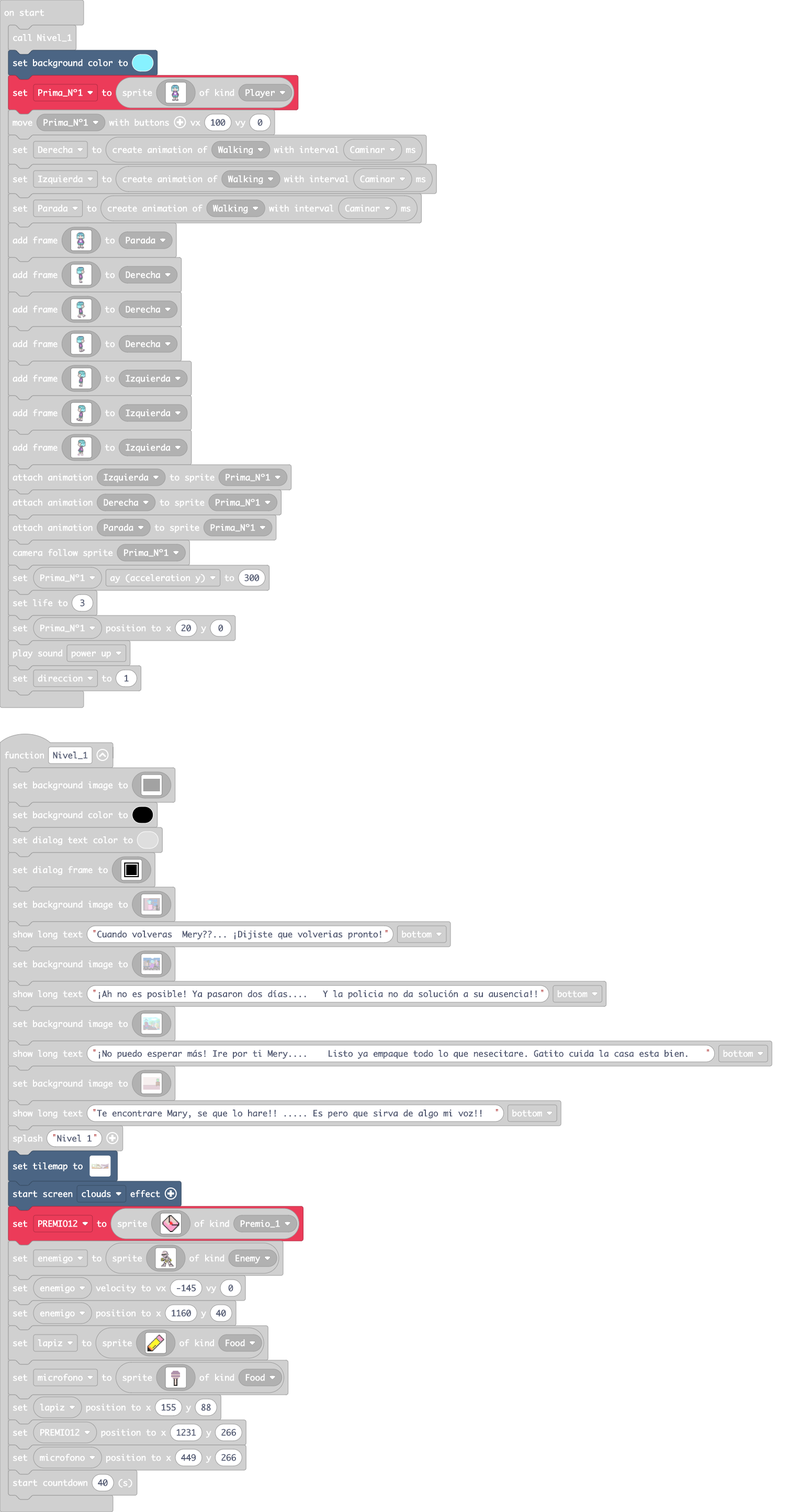
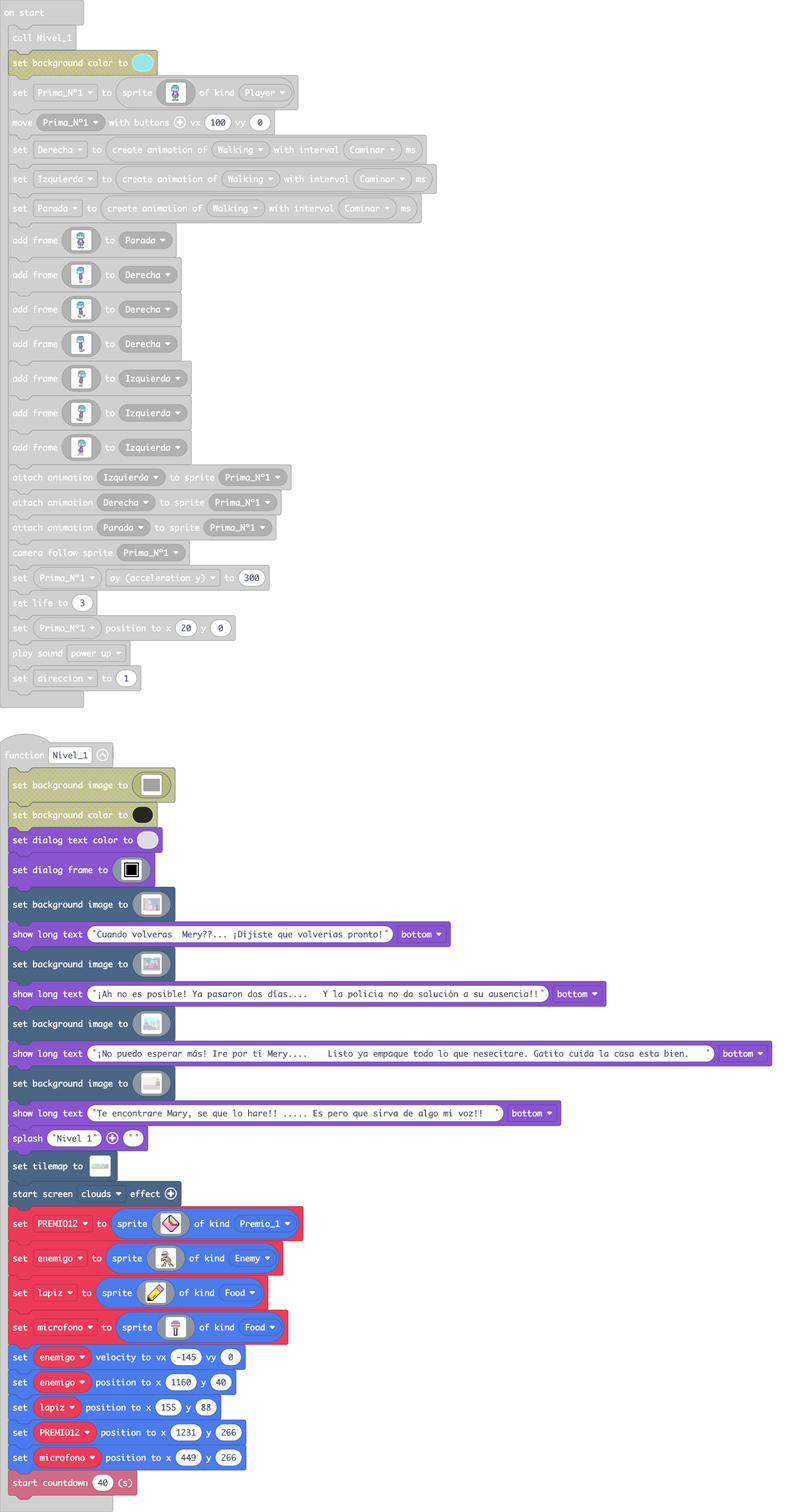
Update main.blocks, main.ts, tilemap.g.jres, tilemap.g.ts

Changed region(s): [[0.0, 0.4984, 0.9849, 0.9969], [0.0, 0.0312, 0.2155, 0.0935], [0.2462, 0.0312, 0.3694, 0.1558]]

diff --git a/main.ts b/main.ts
@@ -285,129 +285,6 @@ function movePrima2 () {
     }
 }
 function Nivel_1 () {
-    scene.setBackgroundImage(img`
-        f f f f f f f f f f f f f f f f f f f f f f f f f f f f f f f f f f f f f f f f f f f f f f f f f f f f f f f f f f f f f f f f f f f f f f f f f f f f f f f f f f f f f f f f f f f f f f f f f f f f f f f f f f f f f f f f f f f f f f f f f f f f f f f f f f f f f f f f f f f f f f f f f f f f f f f f f f f f f f f f 
-        f f f f f f f f f f f f f f f f f f f f f f f f f f f f f f f f f f f f f f f f f f f f f f f f f f f f f f f f f f f f f f f f f f f f f f f f f f f f f f f f f f f f f f f f f f f f f f f f f f f f f f f f f f f f f f f f f f f f f f f f f f f f f f f f f f f f f f f f f f f f f f f f f f f f f f f f f f f f f f f f 
-        f f f f f f f f f f f f f f f f f f f f f f f f f f f f f f f f f f f f f f f f f f f f f f f f f f f f f f f f f f f f f f f f f f f f f f f f f f f f f f f f f f f f f f f f f f f f f f f f f f f f f f f f f f f f f f f f f f f f f f f f f f f f f f f f f f f f f f f f f f f f f f f f f f f f f f f f f f f f f f f f 
-        f f f f f f f f f f f f f f f f f f f f f f f f f f f f f f f f f f f f f f f f f f f f f f f f f f f f f f f f f f f f f f f f f f f f f f f f f f f f f f f f f f f f f f f f f f f f f f f f f f f f f f f f f f f f f f f f f f f f f f f f f f f f f f f f f f f f f f f f f f f f f f f f f f f f f f f f f f f f f f f f 
-        f f f f f f f f f f f f f f f f f f f f f f f f f f f f f f f f f f f f f f f f f f f f f f f f f f f f f f f f f f f f f f f f f f f f f f f f f f f f f f f f f f f f f f f f f f f f f f f f f f f f f f f f f f f f f f f f f f f f f f f f f f f f f f f f f f f f f f f f f f f f f f f f f f f f f f f f f f f f f f f f 
-        f f f f f f f f f f f f f f f f f f f f f f f f f f f f f f f f f f f f f f f f f f f f f f f f f f f f f f f f f f f f f f f f f f f f f f f f f f f f f f f f f f f f f f f f f f f f f f f f f f f f f f f f f f f f f f f f f f f f f f f f f f f f f f f f f f f f f f f f f f f f f f f f f f f f f f f f f f f f f f f f 
-        f f f f f f f f f f f f f f f f f f f f f f f f f f f f f f f f f f f f f f f f f f f f f f f f f f f f f f f f f f f f f f f f f f f f f f f f f f f f f f f f f f f f f f f f f f f f f f f f f f f f f f f f f f f f f f f f f f f f f f f f f f f f f f f f f f f f f f f f f f f f f f f f f f f f f f f f f f f f f f f f 
-        f f f f f f f f f f f f f f f f f f f f f f f f f f f f f f f f f f f f f f f f f f f f f f f f f f f f f f f f f f f f f f f f f f f f f f f f f f f f f f f f f f f f f f f f f f f f f f f f f f f f f f f f f f f f f f f f f f f f f f f f f f f f f f f f f f f f f f f f f f f f f f f f f f f f f f f f f f f f f f f f 
-        f f f f f f f f f f f f f f f f f f f f f f f f f f f f f f f f f f f f f f f f f f f f f f f f f f f f f f f f f f f f f f f f f f f f f f f f f f f f f f f f f f f f f f f f f f f f f f f f f f f f f f f f f f f f f f f f f f f f f f f f f f f f f f f f f f f f f f f f f f f f f f f f f f f f f f f f f f f f f f f f 
-        f f f f f f f f f f f f f f f f f f f f f f f f f f f f f f f f f f f f f f f f f f f f f f f f f f f f f f f f f f f f f f f f f f f f f f f f f f f f f f f f f f f f f f f f f f f f f f f f f f f f f f f f f f f f f f f f f f f f f f f f f f f f f f f f f f f f f f f f f f f f f f f f f f f f f f f f f f f f f f f f 
-        f f f f f f f f f f f f f f f f f f f f f f f f f f f f f f f f f f f f f f f f f f f f f f f f f f f f f f f f f f f f f f f f f f f f f f f f f f f f f f f f f f f f f f f f f f f f f f f f f f f f f f f f f f f f f f f f f f f f f f f f f f f f f f f f f f f f f f f f f f f f f f f f f f f f f f f f f f f f f f f f 
-        f f f f f f f f f f f f f f f f f f f f f f f f f f f f f f f f f f f f f f f f f f f f f f f f f f f f f f f f f f f f f f f f f f f f f f f f f f f f f f f f f f f f f f f f f f f f f f f f f f f f f f f f f f f f f f f f f f f f f f f f f f f f f f f f f f f f f f f f f f f f f f f f f f f f f f f f f f f f f f f f 
-        f f f f f f f f f f f f f f f f f f f f f f f f f f f f f f f f f f f f f f f f f f f f f f f f f f f f f f f f f f f f f f f f f f f f f f f f f f f f f f f f f f f f f f f f f f f f f f f f f f f f f f f f f f f f f f f f f f f f f f f f f f f f f f f f f f f f f f f f f f f f f f f f f f f f f f f f f f f f f f f f 
-        f f f f f f f f f f f f f f f f f f f f f f f f f f f f f f f f f f f f f f f f f f f f f f f f f f f f f f f f f f f f f f f f f f f f f f f f f f f f f f f f f f f f f f f f f f f f f f f f f f f f f f f f f f f f f f f f f f f f f f f f f f f f f f f f f f f f f f f f f f f f f f f f f f f f f f f f f f f f f f f f 
-        f f f f f f f f f f f f f f f f f f f f f f f f f f f f f f f f f f f f f f f f f f f f f f f f f f f f f f f f f f f f f f f f f f f f f f f f f f f f f f f f f f f f f f f f f f f f f f f f f f f f f f f f f f f f f f f f f f f f f f f f f f f f f f f f f f f f f f f f f f f f f f f f f f f f f f f f f f f f f f f f 
-        f f f f f f f f f f f f f f f f f f f f f f f f f f f f f f f f f f f f f f f f f f f f f f f f f f f f f f f f f f f f f f f f f f f f f f f f f f f f f f f f f f f f f f f f f f f f f f f f f f f f f f f f f f f f f f f f f f f f f f f f f f f f f f f f f f f f f f f f f f f f f f f f f f f f f f f f f f f f f f f f 
-        f f f f f f f f f f f f f f f f f f f f f f f f f f f f f f f f f f f f f f f f f f f f f f f f f f f f f f f f f f f f f f f f f f f f f f f f f f f f f f f f f f f f f f f f f f f f f f f f f f f f f f f f f f f f f f f f f f f f f f f f f f f f f f f f f f f f f f f f f f f f f f f f f f f f f f f f f f f f f f f f 
-        f f f f f f f f f f f f f f f f f f f f f f f f f f f f f f f f f f f f f f f f f f f f f f f f f f f f f f f f f f f f f f f f f f f f f f f f f f f f f f f f f f f f f f f f f f f f f f f f f f f f f f f f f f f f f f f f f f f f f f f f f f f f f f f f f f f f f f f f f f f f f f f f f f f f f f f f f f f f f f f f 
-        f f f f f f f f f f f f f f f f f f f f f f f f f f f f f f f f f f f f f f f f f f f f f f f f f f f f f f f f f f f f f f f f f f f f f f f f f f f f f f f f f f f f f f f f f f f f f f f f f f f f f f f f f f f f f f f f f f f f f f f f f f f f f f f f f f f f f f f f f f f f f f f f f f f f f f f f f f f f f f f f 
-        f f f f f f f f f f f f f f f f f f f f f f f f f f f f f f f f f f f f f f f f f f f f f f f f f f f f f f f f f f f f f f f f f f f f f f f f f f f f f f f f f f f f f f f f f f f f f f f f f f f f f f f f f f f f f f f f f f f f f f f f f f f f f f f f f f f f f f f f f f f f f f f f f f f f f f f f f f f f f f f f 
-        f f f f f f f f f f f f f f f f f f f f f f f f f f f f f f f f f f f f f f f f f f f f f f f f f f f f f f f f f f f f f f f f f f f f f f f f f f f f f f f f f f f f f f f f f f f f f f f f f f f f f f f f f f f f f f f f f f f f f f f f f f f f f f f f f f f f f f f f f f f f f f f f f f f f f f f f f f f f f f f f 
-        f f f f f f f f f f f f f f f f f f f f f f f f f f f f f f f f f f f f f f f f f f f f f f f f f f f f f f f f f f f f f f f f f f f f f f f f f f f f f f f f f f f f f f f f f f f f f f f f f f f f f f f f f f f f f f f f f f f f f f f f f f f f f f f f f f f f f f f f f f f f f f f f f f f f f f f f f f f f f f f f 
-        f f f f f f f f f f f f f f f f f f f f f f f f f f f f f f f f f f f f f f f f f f f f f f f f f f f f f f f f f f f f f f f f f f f f f f f f f f f f f f f f f f f f f f f f f f f f f f f f f f f f f f f f f f f f f f f f f f f f f f f f f f f f f f f f f f f f f f f f f f f f f f f f f f f f f f f f f f f f f f f f 
-        f f f f f f f f f f f f f f f f f f f f f f f f f f f f f f f f f f f f f f f f f f f f f f f f f f f f f f f f f f f f f f f f f f f f f f f f f f f f f f f f f f f f f f f f f f f f f f f f f f f f f f f f f f f f f f f f f f f f f f f f f f f f f f f f f f f f f f f f f f f f f f f f f f f f f f f f f f f f f f f f 
-        f f f f f f f f f f f f f f f f f f f f f f f f f f f f f f f f f f f f f f f f f f f f f f f f f f f f f f f f f f f f f f f f f f f f f f f f f f f f f f f f f f f f f f f f f f f f f f f f f f f f f f f f f f f f f f f f f f f f f f f f f f f f f f f f f f f f f f f f f f f f f f f f f f f f f f f f f f f f f f f f 
-        f f f f f f f f f f f f f f f f f f f f f f f f f f f f f f f f f f f f f f f f f f f f f f f f f f f f f f f f f f f f f f f f f f f f f f f f f f f f f f f f f f f f f f f f f f f f f f f f f f f f f f f f f f f f f f f f f f f f f f f f f f f f f f f f f f f f f f f f f f f f f f f f f f f f f f f f f f f f f f f f 
-        f f f f f f f f f f f f f f f f f f f f f f f f f f f f f f f f f f f f f f f f f f f f f f f f f f f f f f f f f f f f f f f f f f f f f f f f f f f f f f f f f f f f f f f f f f f f f f f f f f f f f f f f f f f f f f f f f f f f f f f f f f f f f f f f f f f f f f f f f f f f f f f f f f f f f f f f f f f f f f f f 
-        f f f f f f f f f f f f f f f f f f f f f f f f f f f f f f f f f f f f f f f f f f f f f f f f f f f f f f f f f f f f f f f f f f f f f f f f f f f f f f f f f f f f f f f f f f f f f f f f f f f f f f f f f f f f f f f f f f f f f f f f f f f f f f f f f f f f f f f f f f f f f f f f f f f f f f f f f f f f f f f f 
-        f f f f f f f f f f f f f f f f f f f f f f f f f f f f f f f f f f f f f f f f f f f f f f f f f f f f f f f f f f f f f f f f f f f f f f f f f f f f f f f f f f f f f f f f f f f f f f f f f f f f f f f f f f f f f f f f f f f f f f f f f f f f f f f f f f f f f f f f f f f f f f f f f f f f f f f f f f f f f f f f 
-        f f f f f f f f f f f f f f f f f f f f f f f f f f f f f f f f f f f f f f f f f f f f f f f f f f f f f f f f f f f f f f f f f f f f f f f f f f f f f f f f f f f f f f f f f f f f f f f f f f f f f f f f f f f f f f f f f f f f f f f f f f f f f f f f f f f f f f f f f f f f f f f f f f f f f f f f f f f f f f f f 
-        f f f f f f f f f f f f f f f f f f f f f f f f f f f f f f f f f f f f f f f f f f f f f f f f f f f f f f f f f f f f f f f f f f f f f f f f f f f f f f f f f f f f f f f f f f f f f f f f f f f f f f f f f f f f f f f f f f f f f f f f f f f f f f f f f f f f f f f f f f f f f f f f f f f f f f f f f f f f f f f f 
-        f f f f f f f f f f f f f f f f f f f f f f f f f f f f f f f f f f f f f f f f f f f f f f f f f f f f f f f f f f f f f f f f f f f f f f f f f f f f f f f f f f f f f f f f f f f f f f f f f f f f f f f f f f f f f f f f f f f f f f f f f f f f f f f f f f f f f f f f f f f f f f f f f f f f f f f f f f f f f f f f 
-        f f f f f f f f f f f f f f f f f f f f f f f f f f f f f f f f f f f f f f f f f f f f f f f f f f f f f f f f f f f f f f f f f f f f f f f f f f f f f f f f f f f f f f f f f f f f f f f f f f f f f f f f f f f f f f f f f f f f f f f f f f f f f f f f f f f f f f f f f f f f f f f f f f f f f f f f f f f f f f f f 
-        f f f f f f f f f f f f f f f f f f f f f f f f f f f f f f f f f f f f f f f f f f f f f f f f f f f f f f f f f f f f f f f f f f f f f f f f f f f f f f f f f f f f f f f f f f f f f f f f f f f f f f f f f f f f f f f f f f f f f f f f f f f f f f f f f f f f f f f f f f f f f f f f f f f f f f f f f f f f f f f f 
-        f f f f f f f f f f f f f f f f f f f f f f f f f f f f f f f f f f f f f f f f f f f f f f f f f f f f f f f f f f f f f f f f f f f f f f f f f f f f f f f f f f f f f f f f f f f f f f f f f f f f f f f f f f f f f f f f f f f f f f f f f f f f f f f f f f f f f f f f f f f f f f f f f f f f f f f f f f f f f f f f 
-        f f f f f f f f f f f f f f f f f f f f f f f f f f f f f f f f f f f f f f f f f f f f f f f f f f f f f f f f f f f f f f f f f f f f f f f f f f f f f f f f f f f f f f f f f f f f f f f f f f f f f f f f f f f f f f f f f f f f f f f f f f f f f f f f f f f f f f f f f f f f f f f f f f f f f f f f f f f f f f f f 
-        f f f f f f f f f f f f f f f f f f f f f f f f f f f f f f f f f f f f f f f f f f f f f f f f f f f f f f f f f f f f f f f f f f f f f f f f f f f f f f f f f f f f f f f f f f f f f f f f f f f f f f f f f f f f f f f f f f f f f f f f f f f f f f f f f f f f f f f f f f f f f f f f f f f f f f f f f f f f f f f f 
-        f f f f f f f f f f f f f f f f f f f f f f f f f f f f f f f f f f f f f f f f f f f f f f f f f f f f f f f f f f f f f f f f f f f f f f f f f f f f f f f f f f f f f f f f f f f f f f f f f f f f f f f f f f f f f f f f f f f f f f f f f f f f f f f f f f f f f f f f f f f f f f f f f f f f f f f f f f f f f f f f 
-        f f f f f f f f f f f f f f f f f f f f f f f f f f f f f f f f f f f f f f f f f f f f f f f f f f f f f f f f f f f f f f f f f f f f f f f f f f f f f f f f f f f f f f f f f f f f f f f f f f f f f f f f f f f f f f f f f f f f f f f f f f f f f f f f f f f f f f f f f f f f f f f f f f f f f f f f f f f f f f f f 
-        f f f f f f f f f f f f f f f f f f f f f f f f f f f f f f f f f f f f f f f f f f f f f f f f f f f f f f f f f f f f f f f f f f f f f f f f f f f f f f f f f f f f f f f f f f f f f f f f f f f f f f f f f f f f f f f f f f f f f f f f f f f f f f f f f f f f f f f f f f f f f f f f f f f f f f f f f f f f f f f f 
-        f f f f f f f f f f f f f f f f f f f f f f f f f f f f f f f f f f f f f f f f f f f f f f f f f f f f f f f f f f f f f f f f f f f f f f f f f f f f f f f f f f f f f f f f f f f f f f f f f f f f f f f f f f f f f f f f f f f f f f f f f f f f f f f f f f f f f f f f f f f f f f f f f f f f f f f f f f f f f f f f 
-        f f f f f f f f f f f f f f f f f f f f f f f f f f f f f f f f f f f f f f f f f f f f f f f f f f f f f f f f f f f f f f f f f f f f f f f f f f f f f f f f f f f f f f f f f f f f f f f f f f f f f f f f f f f f f f f f f f f f f f f f f f f f f f f f f f f f f f f f f f f f f f f f f f f f f f f f f f f f f f f f 
-        f f f f f f f f f f f f f f f f f f f f f f f f f f f f f f f f f f f f f f f f f f f f f f f f f f f f f f f f f f f f f f f f f f f f f f f f f f f f f f f f f f f f f f f f f f f f f f f f f f f f f f f f f f f f f f f f f f f f f f f f f f f f f f f f f f f f f f f f f f f f f f f f f f f f f f f f f f f f f f f f 
-        f f f f f f f f f f f f f f f f f f f f f f f f f f f f f f f f f f f f f f f f f f f f f f f f f f f f f f f f f f f f f f f f f f f f f f f f f f f f f f f f f f f f f f f f f f f f f f f f f f f f f f f f f f f f f f f f f f f f f f f f f f f f f f f f f f f f f f f f f f f f f f f f f f f f f f f f f f f f f f f f 
-        f f f f f f f f f f f f f f f f f f f f f f f f f f f f f f f f f f f f f f f f f f f f f f f f f f f f f f f f f f f f f f f f f f f f f f f f f f f f f f f f f f f f f f f f f f f f f f f f f f f f f f f f f f f f f f f f f f f f f f f f f f f f f f f f f f f f f f f f f f f f f f f f f f f f f f f f f f f f f f f f 
-        f f f f f f f f f f f f f f f f f f f f f f f f f f f f f f f f f f f f f f f f f f f f f f f f f f f f f f f f f f f f f f f f f f f f f f f f f f f f f f f f f f f f f f f f f f f f f f f f f f f f f f f f f f f f f f f f f f f f f f f f f f f f f f f f f f f f f f f f f f f f f f f f f f f f f f f f f f f f f f f f 
-        f f f f f f f f f f f f f f f f f f f f f f f f f f f f f f f f f f f f f f f f f f f f f f f f f f f f f f f f f f f f f f f f f f f f f f f f f f f f f f f f f f f f f f f f f f f f f f f f f f f f f f f f f f f f f f f f f f f f f f f f f f f f f f f f f f f f f f f f f f f f f f f f f f f f f f f f f f f f f f f f 
-        f f f f f f f f f f f f f f f f f f f f f f f f f f f f f f f f f f f f f f f f f f f f f f f f f f f f f f f f f f f f f f f f f f f f f f f f f f f f f f f f f f f f f f f f f f f f f f f f f f f f f f f f f f f f f f f f f f f f f f f f f f f f f f f f f f f f f f f f f f f f f f f f f f f f f f f f f f f f f f f f 
-        f f f f f f f f f f f f f f f f f f f f f f f f f f f f f f f f f f f f f f f f f f f f f f f f f f f f f f f f f f f f f f f f f f f f f f f f f f f f f f f f f f f f f f f f f f f f f f f f f f f f f f f f f f f f f f f f f f f f f f f f f f f f f f f f f f f f f f f f f f f f f f f f f f f f f f f f f f f f f f f f 
-        f f f f f f f f f f f f f f f f f f f f f f f f f f f f f f f f f f f f f f f f f f f f f f f f f f f f f f f f f f f f f f f f f f f f f f f f f f f f f f f f f f f f f f f f f f f f f f f f f f f f f f f f f f f f f f f f f f f f f f f f f f f f f f f f f f f f f f f f f f f f f f f f f f f f f f f f f f f f f f f f 
-        f f f f f f f f f f f f f f f f f f f f f f f f f f f f f f f f f f f f f f f f f f f f f f f f f f f f f f f f f f f f f f f f f f f f f f f f f f f f f f f f f f f f f f f f f f f f f f f f f f f f f f f f f f f f f f f f f f f f f f f f f f f f f f f f f f f f f f f f f f f f f f f f f f f f f f f f f f f f f f f f 
-        f f f f f f f f f f f f f f f f f f f f f f f f f f f f f f f f f f f f f f f f f f f f f f f f f f f f f f f f f f f f f f f f f f f f f f f f f f f f f f f f f f f f f f f f f f f f f f f f f f f f f f f f f f f f f f f f f f f f f f f f f f f f f f f f f f f f f f f f f f f f f f f f f f f f f f f f f f f f f f f f 
-        f f f f f f f f f f f f f f f f f f f f f f f f f f f f f f f f f f f f f f f f f f f f f f f f f f f f f f f f f f f f f f f f f f f f f f f f f f f f f f f f f f f f f f f f f f f f f f f f f f f f f f f f f f f f f f f f f f f f f f f f f f f f f f f f f f f f f f f f f f f f f f f f f f f f f f f f f f f f f f f f 
-        f f f f f f f f f f f f f f f f f f f f f f f f f f f f f f f f f f f f f f f f f f f f f f f f f f f f f f f f f f f f f f f f f f f f f f f f f f f f f f f f f f f f f f f f f f f f f f f f f f f f f f f f f f f f f f f f f f f f f f f f f f f f f f f f f f f f f f f f f f f f f f f f f f f f f f f f f f f f f f f f 
-        f f f f f f f f f f f f f f f f f f f f f f f f f f f f f f f f f f f f f f f f f f f f f f f f f f f f f f f f f f f f f f f f f f f f f f f f f f f f f f f f f f f f f f f f f f f f f f f f f f f f f f f f f f f f f f f f f f f f f f f f f f f f f f f f f f f f f f f f f f f f f f f f f f f f f f f f f f f f f f f f 
-        f f f f f f f f f f f f f f f f f f f f f f f f f f f f f f f f f f f f f f f f f f f f f f f f f f f f f f f f f f f f f f f f f f f f f f f f f f f f f f f f f f f f f f f f f f f f f f f f f f f f f f f f f f f f f f f f f f f f f f f f f f f f f f f f f f f f f f f f f f f f f f f f f f f f f f f f f f f f f f f f 
-        f f f f f f f f f f f f f f f f f f f f f f f f f f f f f f f f f f f f f f f f f f f f f f f f f f f f f f f f f f f f f f f f f f f f f f f f f f f f f f f f f f f f f f f f f f f f f f f f f f f f f f f f f f f f f f f f f f f f f f f f f f f f f f f f f f f f f f f f f f f f f f f f f f f f f f f f f f f f f f f f 
-        f f f f f f f f f f f f f f f f f f f f f f f f f f f f f f f f f f f f f f f f f f f f f f f f f f f f f f f f f f f f f f f f f f f f f f f f f f f f f f f f f f f f f f f f f f f f f f f f f f f f f f f f f f f f f f f f f f f f f f f f f f f f f f f f f f f f f f f f f f f f f f f f f f f f f f f f f f f f f f f f 
-        f f f f f f f f f f f f f f f f f f f f f f f f f f f f f f f f f f f f f f f f f f f f f f f f f f f f f f f f f f f f f f f f f f f f f f f f f f f f f f f f f f f f f f f f f f f f f f f f f f f f f f f f f f f f f f f f f f f f f f f f f f f f f f f f f f f f f f f f f f f f f f f f f f f f f f f f f f f f f f f f 
-        f f f f f f f f f f f f f f f f f f f f f f f f f f f f f f f f f f f f f f f f f f f f f f f f f f f f f f f f f f f f f f f f f f f f f f f f f f f f f f f f f f f f f f f f f f f f f f f f f f f f f f f f f f f f f f f f f f f f f f f f f f f f f f f f f f f f f f f f f f f f f f f f f f f f f f f f f f f f f f f f 
-        f f f f f f f f f f f f f f f f f f f f f f f f f f f f f f f f f f f f f f f f f f f f f f f f f f f f f f f f f f f f f f f f f f f f f f f f f f f f f f f f f f f f f f f f f f f f f f f f f f f f f f f f f f f f f f f f f f f f f f f f f f f f f f f f f f f f f f f f f f f f f f f f f f f f f f f f f f f f f f f f 
-        f f f f f f f f f f f f f f f f f f f f f f f f f f f f f f f f f f f f f f f f f f f f f f f f f f f f f f f f f f f f f f f f f f f f f f f f f f f f f f f f f f f f f f f f f f f f f f f f f f f f f f f f f f f f f f f f f f f f f f f f f f f f f f f f f f f f f f f f f f f f f f f f f f f f f f f f f f f f f f f f 
-        f f f f f f f f f f f f f f f f f f f f f f f f f f f f f f f f f f f f f f f f f f f f f f f f f f f f f f f f f f f f f f f f f f f f f f f f f f f f f f f f f f f f f f f f f f f f f f f f f f f f f f f f f f f f f f f f f f f f f f f f f f f f f f f f f f f f f f f f f f f f f f f f f f f f f f f f f f f f f f f f 
-        f f f f f f f f f f f f f f f f f f f f f f f f f f f f f f f f f f f f f f f f f f f f f f f f f f f f f f f f f f f f f f f f f f f f f f f f f f f f f f f f f f f f f f f f f f f f f f f f f f f f f f f f f f f f f f f f f f f f f f f f f f f f f f f f f f f f f f f f f f f f f f f f f f f f f f f f f f f f f f f f 
-        f f f f f f f f f f f f f f f f f f f f f f f f f f f f f f f f f f f f f f f f f f f f f f f f f f f f f f f f f f f f f f f f f f f f f f f f f f f f f f f f f f f f f f f f f f f f f f f f f f f f f f f f f f f f f f f f f f f f f f f f f f f f f f f f f f f f f f f f f f f f f f f f f f f f f f f f f f f f f f f f 
-        f f f f f f f f f f f f f f f f f f f f f f f f f f f f f f f f f f f f f f f f f f f f f f f f f f f f f f f f f f f f f f f f f f f f f f f f f f f f f f f f f f f f f f f f f f f f f f f f f f f f f f f f f f f f f f f f f f f f f f f f f f f f f f f f f f f f f f f f f f f f f f f f f f f f f f f f f f f f f f f f 
-        f f f f f f f f f f f f f f f f f f f f f f f f f f f f f f f f f f f f f f f f f f f f f f f f f f f f f f f f f f f f f f f f f f f f f f f f f f f f f f f f f f f f f f f f f f f f f f f f f f f f f f f f f f f f f f f f f f f f f f f f f f f f f f f f f f f f f f f f f f f f f f f f f f f f f f f f f f f f f f f f 
-        f f f f f f f f f f f f f f f f f f f f f f f f f f f f f f f f f f f f f f f f f f f f f f f f f f f f f f f f f f f f f f f f f f f f f f f f f f f f f f f f f f f f f f f f f f f f f f f f f f f f f f f f f f f f f f f f f f f f f f f f f f f f f f f f f f f f f f f f f f f f f f f f f f f f f f f f f f f f f f f f 
-        f f f f f f f f f f f f f f f f f f f f f f f f f f f f f f f f f f f f f f f f f f f f f f f f f f f f f f f f f f f f f f f f f f f f f f f f f f f f f f f f f f f f f f f f f f f f f f f f f f f f f f f f f f f f f f f f f f f f f f f f f f f f f f f f f f f f f f f f f f f f f f f f f f f f f f f f f f f f f f f f 
-        f f f f f f f f f f f f f f f f f f f f f f f f f f f f f f f f f f f f f f f f f f f f f f f f f f f f f f f f f f f f f f f f f f f f f f f f f f f f f f f f f f f f f f f f f f f f f f f f f f f f f f f f f f f f f f f f f f f f f f f f f f f f f f f f f f f f f f f f f f f f f f f f f f f f f f f f f f f f f f f f 
-        f f f f f f f f f f f f f f f f f f f f f f f f f f f f f f f f f f f f f f f f f f f f f f f f f f f f f f f f f f f f f f f f f f f f f f f f f f f f f f f f f f f f f f f f f f f f f f f f f f f f f f f f f f f f f f f f f f f f f f f f f f f f f f f f f f f f f f f f f f f f f f f f f f f f f f f f f f f f f f f f 
-        f f f f f f f f f f f f f f f f f f f f f f f f f f f f f f f f f f f f f f f f f f f f f f f f f f f f f f f f f f f f f f f f f f f f f f f f f f f f f f f f f f f f f f f f f f f f f f f f f f f f f f f f f f f f f f f f f f f f f f f f f f f f f f f f f f f f f f f f f f f f f f f f f f f f f f f f f f f f f f f f 
-        f f f f f f f f f f f f f f f f f f f f f f f f f f f f f f f f f f f f f f f f f f f f f f f f f f f f f f f f f f f f f f f f f f f f f f f f f f f f f f f f f f f f f f f f f f f f f f f f f f f f f f f f f f f f f f f f f f f f f f f f f f f f f f f f f f f f f f f f f f f f f f f f f f f f f f f f f f f f f f f f 
-        f f f f f f f f f f f f f f f f f f f f f f f f f f f f f f f f f f f f f f f f f f f f f f f f f f f f f f f f f f f f f f f f f f f f f f f f f f f f f f f f f f f f f f f f f f f f f f f f f f f f f f f f f f f f f f f f f f f f f f f f f f f f f f f f f f f f f f f f f f f f f f f f f f f f f f f f f f f f f f f f 
-        f f f f f f f f f f f f f f f f f f f f f f f f f f f f f f f f f f f f f f f f f f f f f f f f f f f f f f f f f f f f f f f f f f f f f f f f f f f f f f f f f f f f f f f f f f f f f f f f f f f f f f f f f f f f f f f f f f f f f f f f f f f f f f f f f f f f f f f f f f f f f f f f f f f f f f f f f f f f f f f f 
-        f f f f f f f f f f f f f f f f f f f f f f f f f f f f f f f f f f f f f f f f f f f f f f f f f f f f f f f f f f f f f f f f f f f f f f f f f f f f f f f f f f f f f f f f f f f f f f f f f f f f f f f f f f f f f f f f f f f f f f f f f f f f f f f f f f f f f f f f f f f f f f f f f f f f f f f f f f f f f f f f 
-        f f f f f f f f f f f f f f f f f f f f f f f f f f f f f f f f f f f f f f f f f f f f f f f f f f f f f f f f f f f f f f f f f f f f f f f f f f f f f f f f f f f f f f f f f f f f f f f f f f f f f f f f f f f f f f f f f f f f f f f f f f f f f f f f f f f f f f f f f f f f f f f f f f f f f f f f f f f f f f f f 
-        f f f f f f f f f f f f f f f f f f f f f f f f f f f f f f f f f f f f f f f f f f f f f f f f f f f f f f f f f f f f f f f f f f f f f f f f f f f f f f f f f f f f f f f f f f f f f f f f f f f f f f f f f f f f f f f f f f f f f f f f f f f f f f f f f f f f f f f f f f f f f f f f f f f f f f f f f f f f f f f f 
-        f f f f f f f f f f f f f f f f f f f f f f f f f f f f f f f f f f f f f f f f f f f f f f f f f f f f f f f f f f f f f f f f f f f f f f f f f f f f f f f f f f f f f f f f f f f f f f f f f f f f f f f f f f f f f f f f f f f f f f f f f f f f f f f f f f f f f f f f f f f f f f f f f f f f f f f f f f f f f f f f 
-        f f f f f f f f f f f f f f f f f f f f f f f f f f f f f f f f f f f f f f f f f f f f f f f f f f f f f f f f f f f f f f f f f f f f f f f f f f f f f f f f f f f f f f f f f f f f f f f f f f f f f f f f f f f f f f f f f f f f f f f f f f f f f f f f f f f f f f f f f f f f f f f f f f f f f f f f f f f f f f f f 
-        f f f f f f f f f f f f f f f f f f f f f f f f f f f f f f f f f f f f f f f f f f f f f f f f f f f f f f f f f f f f f f f f f f f f f f f f f f f f f f f f f f f f f f f f f f f f f f f f f f f f f f f f f f f f f f f f f f f f f f f f f f f f f f f f f f f f f f f f f f f f f f f f f f f f f f f f f f f f f f f f 
-        f f f f f f f f f f f f f f f f f f f f f f f f f f f f f f f f f f f f f f f f f f f f f f f f f f f f f f f f f f f f f f f f f f f f f f f f f f f f f f f f f f f f f f f f f f f f f f f f f f f f f f f f f f f f f f f f f f f f f f f f f f f f f f f f f f f f f f f f f f f f f f f f f f f f f f f f f f f f f f f f 
-        f f f f f f f f f f f f f f f f f f f f f f f f f f f f f f f f f f f f f f f f f f f f f f f f f f f f f f f f f f f f f f f f f f f f f f f f f f f f f f f f f f f f f f f f f f f f f f f f f f f f f f f f f f f f f f f f f f f f f f f f f f f f f f f f f f f f f f f f f f f f f f f f f f f f f f f f f f f f f f f f 
-        f f f f f f f f f f f f f f f f f f f f f f f f f f f f f f f f f f f f f f f f f f f f f f f f f f f f f f f f f f f f f f f f f f f f f f f f f f f f f f f f f f f f f f f f f f f f f f f f f f f f f f f f f f f f f f f f f f f f f f f f f f f f f f f f f f f f f f f f f f f f f f f f f f f f f f f f f f f f f f f f 
-        f f f f f f f f f f f f f f f f f f f f f f f f f f f f f f f f f f f f f f f f f f f f f f f f f f f f f f f f f f f f f f f f f f f f f f f f f f f f f f f f f f f f f f f f f f f f f f f f f f f f f f f f f f f f f f f f f f f f f f f f f f f f f f f f f f f f f f f f f f f f f f f f f f f f f f f f f f f f f f f f 
-        f f f f f f f f f f f f f f f f f f f f f f f f f f f f f f f f f f f f f f f f f f f f f f f f f f f f f f f f f f f f f f f f f f f f f f f f f f f f f f f f f f f f f f f f f f f f f f f f f f f f f f f f f f f f f f f f f f f f f f f f f f f f f f f f f f f f f f f f f f f f f f f f f f f f f f f f f f f f f f f f 
-        f f f f f f f f f f f f f f f f f f f f f f f f f f f f f f f f f f f f f f f f f f f f f f f f f f f f f f f f f f f f f f f f f f f f f f f f f f f f f f f f f f f f f f f f f f f f f f f f f f f f f f f f f f f f f f f f f f f f f f f f f f f f f f f f f f f f f f f f f f f f f f f f f f f f f f f f f f f f f f f f 
-        f f f f f f f f f f f f f f f f f f f f f f f f f f f f f f f f f f f f f f f f f f f f f f f f f f f f f f f f f f f f f f f f f f f f f f f f f f f f f f f f f f f f f f f f f f f f f f f f f f f f f f f f f f f f f f f f f f f f f f f f f f f f f f f f f f f f f f f f f f f f f f f f f f f f f f f f f f f f f f f f 
-        f f f f f f f f f f f f f f f f f f f f f f f f f f f f f f f f f f f f f f f f f f f f f f f f f f f f f f f f f f f f f f f f f f f f f f f f f f f f f f f f f f f f f f f f f f f f f f f f f f f f f f f f f f f f f f f f f f f f f f f f f f f f f f f f f f f f f f f f f f f f f f f f f f f f f f f f f f f f f f f f 
-        f f f f f f f f f f f f f f f f f f f f f f f f f f f f f f f f f f f f f f f f f f f f f f f f f f f f f f f f f f f f f f f f f f f f f f f f f f f f f f f f f f f f f f f f f f f f f f f f f f f f f f f f f f f f f f f f f f f f f f f f f f f f f f f f f f f f f f f f f f f f f f f f f f f f f f f f f f f f f f f f 
-        f f f f f f f f f f f f f f f f f f f f f f f f f f f f f f f f f f f f f f f f f f f f f f f f f f f f f f f f f f f f f f f f f f f f f f f f f f f f f f f f f f f f f f f f f f f f f f f f f f f f f f f f f f f f f f f f f f f f f f f f f f f f f f f f f f f f f f f f f f f f f f f f f f f f f f f f f f f f f f f f 
-        f f f f f f f f f f f f f f f f f f f f f f f f f f f f f f f f f f f f f f f f f f f f f f f f f f f f f f f f f f f f f f f f f f f f f f f f f f f f f f f f f f f f f f f f f f f f f f f f f f f f f f f f f f f f f f f f f f f f f f f f f f f f f f f f f f f f f f f f f f f f f f f f f f f f f f f f f f f f f f f f 
-        f f f f f f f f f f f f f f f f f f f f f f f f f f f f f f f f f f f f f f f f f f f f f f f f f f f f f f f f f f f f f f f f f f f f f f f f f f f f f f f f f f f f f f f f f f f f f f f f f f f f f f f f f f f f f f f f f f f f f f f f f f f f f f f f f f f f f f f f f f f f f f f f f f f f f f f f f f f f f f f f 
-        f f f f f f f f f f f f f f f f f f f f f f f f f f f f f f f f f f f f f f f f f f f f f f f f f f f f f f f f f f f f f f f f f f f f f f f f f f f f f f f f f f f f f f f f f f f f f f f f f f f f f f f f f f f f f f f f f f f f f f f f f f f f f f f f f f f f f f f f f f f f f f f f f f f f f f f f f f f f f f f f 
-        f f f f f f f f f f f f f f f f f f f f f f f f f f f f f f f f f f f f f f f f f f f f f f f f f f f f f f f f f f f f f f f f f f f f f f f f f f f f f f f f f f f f f f f f f f f f f f f f f f f f f f f f f f f f f f f f f f f f f f f f f f f f f f f f f f f f f f f f f f f f f f f f f f f f f f f f f f f f f f f f 
-        f f f f f f f f f f f f f f f f f f f f f f f f f f f f f f f f f f f f f f f f f f f f f f f f f f f f f f f f f f f f f f f f f f f f f f f f f f f f f f f f f f f f f f f f f f f f f f f f f f f f f f f f f f f f f f f f f f f f f f f f f f f f f f f f f f f f f f f f f f f f f f f f f f f f f f f f f f f f f f f f 
-        f f f f f f f f f f f f f f f f f f f f f f f f f f f f f f f f f f f f f f f f f f f f f f f f f f f f f f f f f f f f f f f f f f f f f f f f f f f f f f f f f f f f f f f f f f f f f f f f f f f f f f f f f f f f f f f f f f f f f f f f f f f f f f f f f f f f f f f f f f f f f f f f f f f f f f f f f f f f f f f f 
-        f f f f f f f f f f f f f f f f f f f f f f f f f f f f f f f f f f f f f f f f f f f f f f f f f f f f f f f f f f f f f f f f f f f f f f f f f f f f f f f f f f f f f f f f f f f f f f f f f f f f f f f f f f f f f f f f f f f f f f f f f f f f f f f f f f f f f f f f f f f f f f f f f f f f f f f f f f f f f f f f 
-        f f f f f f f f f f f f f f f f f f f f f f f f f f f f f f f f f f f f f f f f f f f f f f f f f f f f f f f f f f f f f f f f f f f f f f f f f f f f f f f f f f f f f f f f f f f f f f f f f f f f f f f f f f f f f f f f f f f f f f f f f f f f f f f f f f f f f f f f f f f f f f f f f f f f f f f f f f f f f f f f 
-        f f f f f f f f f f f f f f f f f f f f f f f f f f f f f f f f f f f f f f f f f f f f f f f f f f f f f f f f f f f f f f f f f f f f f f f f f f f f f f f f f f f f f f f f f f f f f f f f f f f f f f f f f f f f f f f f f f f f f f f f f f f f f f f f f f f f f f f f f f f f f f f f f f f f f f f f f f f f f f f f 
-        f f f f f f f f f f f f f f f f f f f f f f f f f f f f f f f f f f f f f f f f f f f f f f f f f f f f f f f f f f f f f f f f f f f f f f f f f f f f f f f f f f f f f f f f f f f f f f f f f f f f f f f f f f f f f f f f f f f f f f f f f f f f f f f f f f f f f f f f f f f f f f f f f f f f f f f f f f f f f f f f 
-        f f f f f f f f f f f f f f f f f f f f f f f f f f f f f f f f f f f f f f f f f f f f f f f f f f f f f f f f f f f f f f f f f f f f f f f f f f f f f f f f f f f f f f f f f f f f f f f f f f f f f f f f f f f f f f f f f f f f f f f f f f f f f f f f f f f f f f f f f f f f f f f f f f f f f f f f f f f f f f f f 
-        f f f f f f f f f f f f f f f f f f f f f f f f f f f f f f f f f f f f f f f f f f f f f f f f f f f f f f f f f f f f f f f f f f f f f f f f f f f f f f f f f f f f f f f f f f f f f f f f f f f f f f f f f f f f f f f f f f f f f f f f f f f f f f f f f f f f f f f f f f f f f f f f f f f f f f f f f f f f f f f f 
-        f f f f f f f f f f f f f f f f f f f f f f f f f f f f f f f f f f f f f f f f f f f f f f f f f f f f f f f f f f f f f f f f f f f f f f f f f f f f f f f f f f f f f f f f f f f f f f f f f f f f f f f f f f f f f f f f f f f f f f f f f f f f f f f f f f f f f f f f f f f f f f f f f f f f f f f f f f f f f f f f 
-        f f f f f f f f f f f f f f f f f f f f f f f f f f f f f f f f f f f f f f f f f f f f f f f f f f f f f f f f f f f f f f f f f f f f f f f f f f f f f f f f f f f f f f f f f f f f f f f f f f f f f f f f f f f f f f f f f f f f f f f f f f f f f f f f f f f f f f f f f f f f f f f f f f f f f f f f f f f f f f f f 
-        f f f f f f f f f f f f f f f f f f f f f f f f f f f f f f f f f f f f f f f f f f f f f f f f f f f f f f f f f f f f f f f f f f f f f f f f f f f f f f f f f f f f f f f f f f f f f f f f f f f f f f f f f f f f f f f f f f f f f f f f f f f f f f f f f f f f f f f f f f f f f f f f f f f f f f f f f f f f f f f f 
-        f f f f f f f f f f f f f f f f f f f f f f f f f f f f f f f f f f f f f f f f f f f f f f f f f f f f f f f f f f f f f f f f f f f f f f f f f f f f f f f f f f f f f f f f f f f f f f f f f f f f f f f f f f f f f f f f f f f f f f f f f f f f f f f f f f f f f f f f f f f f f f f f f f f f f f f f f f f f f f f f 
-        f f f f f f f f f f f f f f f f f f f f f f f f f f f f f f f f f f f f f f f f f f f f f f f f f f f f f f f f f f f f f f f f f f f f f f f f f f f f f f f f f f f f f f f f f f f f f f f f f f f f f f f f f f f f f f f f f f f f f f f f f f f f f f f f f f f f f f f f f f f f f f f f f f f f f f f f f f f f f f f f 
-        f f f f f f f f f f f f f f f f f f f f f f f f f f f f f f f f f f f f f f f f f f f f f f f f f f f f f f f f f f f f f f f f f f f f f f f f f f f f f f f f f f f f f f f f f f f f f f f f f f f f f f f f f f f f f f f f f f f f f f f f f f f f f f f f f f f f f f f f f f f f f f f f f f f f f f f f f f f f f f f f 
-        f f f f f f f f f f f f f f f f f f f f f f f f f f f f f f f f f f f f f f f f f f f f f f f f f f f f f f f f f f f f f f f f f f f f f f f f f f f f f f f f f f f f f f f f f f f f f f f f f f f f f f f f f f f f f f f f f f f f f f f f f f f f f f f f f f f f f f f f f f f f f f f f f f f f f f f f f f f f f f f f 
-        f f f f f f f f f f f f f f f f f f f f f f f f f f f f f f f f f f f f f f f f f f f f f f f f f f f f f f f f f f f f f f f f f f f f f f f f f f f f f f f f f f f f f f f f f f f f f f f f f f f f f f f f f f f f f f f f f f f f f f f f f f f f f f f f f f f f f f f f f f f f f f f f f f f f f f f f f f f f f f f f 
-        f f f f f f f f f f f f f f f f f f f f f f f f f f f f f f f f f f f f f f f f f f f f f f f f f f f f f f f f f f f f f f f f f f f f f f f f f f f f f f f f f f f f f f f f f f f f f f f f f f f f f f f f f f f f f f f f f f f f f f f f f f f f f f f f f f f f f f f f f f f f f f f f f f f f f f f f f f f f f f f f 
-        f f f f f f f f f f f f f f f f f f f f f f f f f f f f f f f f f f f f f f f f f f f f f f f f f f f f f f f f f f f f f f f f f f f f f f f f f f f f f f f f f f f f f f f f f f f f f f f f f f f f f f f f f f f f f f f f f f f f f f f f f f f f f f f f f f f f f f f f f f f f f f f f f f f f f f f f f f f f f f f f 
-        f f f f f f f f f f f f f f f f f f f f f f f f f f f f f f f f f f f f f f f f f f f f f f f f f f f f f f f f f f f f f f f f f f f f f f f f f f f f f f f f f f f f f f f f f f f f f f f f f f f f f f f f f f f f f f f f f f f f f f f f f f f f f f f f f f f f f f f f f f f f f f f f f f f f f f f f f f f f f f f f 
-        f f f f f f f f f f f f f f f f f f f f f f f f f f f f f f f f f f f f f f f f f f f f f f f f f f f f f f f f f f f f f f f f f f f f f f f f f f f f f f f f f f f f f f f f f f f f f f f f f f f f f f f f f f f f f f f f f f f f f f f f f f f f f f f f f f f f f f f f f f f f f f f f f f f f f f f f f f f f f f f f 
-        f f f f f f f f f f f f f f f f f f f f f f f f f f f f f f f f f f f f f f f f f f f f f f f f f f f f f f f f f f f f f f f f f f f f f f f f f f f f f f f f f f f f f f f f f f f f f f f f f f f f f f f f f f f f f f f f f f f f f f f f f f f f f f f f f f f f f f f f f f f f f f f f f f f f f f f f f f f f f f f f 
-        f f f f f f f f f f f f f f f f f f f f f f f f f f f f f f f f f f f f f f f f f f f f f f f f f f f f f f f f f f f f f f f f f f f f f f f f f f f f f f f f f f f f f f f f f f f f f f f f f f f f f f f f f f f f f f f f f f f f f f f f f f f f f f f f f f f f f f f f f f f f f f f f f f f f f f f f f f f f f f f f 
-        f f f f f f f f f f f f f f f f f f f f f f f f f f f f f f f f f f f f f f f f f f f f f f f f f f f f f f f f f f f f f f f f f f f f f f f f f f f f f f f f f f f f f f f f f f f f f f f f f f f f f f f f f f f f f f f f f f f f f f f f f f f f f f f f f f f f f f f f f f f f f f f f f f f f f f f f f f f f f f f f 
-        f f f f f f f f f f f f f f f f f f f f f f f f f f f f f f f f f f f f f f f f f f f f f f f f f f f f f f f f f f f f f f f f f f f f f f f f f f f f f f f f f f f f f f f f f f f f f f f f f f f f f f f f f f f f f f f f f f f f f f f f f f f f f f f f f f f f f f f f f f f f f f f f f f f f f f f f f f f f f f f f 
-        f f f f f f f f f f f f f f f f f f f f f f f f f f f f f f f f f f f f f f f f f f f f f f f f f f f f f f f f f f f f f f f f f f f f f f f f f f f f f f f f f f f f f f f f f f f f f f f f f f f f f f f f f f f f f f f f f f f f f f f f f f f f f f f f f f f f f f f f f f f f f f f f f f f f f f f f f f f f f f f f 
-        `)
-    scene.setBackgroundColor(15)
     game.setDialogTextColor(0)
     game.setDialogFrame(img`
         1 1 1 1 1 1 1 1 1 1 1 1 1 1 1 1 
@@ -920,7 +797,7 @@ function Nivel_1 () {
         `)
     game.showLongText("Te encontrare Mary, se que lo hare!! ..... Es pero que sirva de algo mi voz!!  ", DialogLayout.Bottom)
     game.splash("Nivel 1")
[2 lines of base64/hex data omitted]
         . . . . . . . . . 2 2 2 2 2 2 2 2 2 2 2 2 2 2 2 2 2 2 2 2 2 2 2 2 2 2 2 2 2 2 2 2 2 2 2 2 2 2 2 2 2 2 2 2 2 2 2 2 2 2 2 2 2 2 2 2 2 2 2 2 2 2 2 2 2 2 2 2 2 2 2 2 2 2 2 2 2 2 2 2 2 
         . . . . . . . . . . . . . . . . . . . . . . . . . . . . . . . . . . . . . . . . . . . . . . . . . . . . . . . . . . . . . . . . . . . . . . . . . . . . 2 . . . . . . . . . . . . 2 
         . . . . . . . . . . . . . . . . . . . . . . . . . . . . . . . . . . . . . . . . . . . . . . . . . . . . . . . . . . . . . . . . . . . . . . . . . . . . 2 . . . . . . . . . . . . 2 
@@ -949,7 +826,7 @@ function Nivel_1 () {
         2 2 2 2 2 2 2 2 2 2 2 2 2 2 2 2 2 2 2 2 2 2 2 2 2 2 2 2 2 2 2 2 2 2 2 2 2 2 2 2 2 2 2 2 2 2 2 2 2 2 2 2 2 2 2 2 2 . . . . . . . . . . . . . . . . . 2 2 2 2 2 2 2 2 2 2 2 2 2 2 2 2 
         2 2 2 2 2 2 2 2 2 2 2 2 2 2 2 2 2 2 2 2 2 2 2 2 2 2 2 2 2 2 2 2 2 2 2 2 2 2 2 2 2 2 2 2 2 2 2 2 2 2 2 2 2 2 2 2 2 2 2 2 2 . . . . . . . . . 2 2 2 2 2 2 2 2 2 2 2 2 2 2 2 2 2 2 2 2 
         2 2 2 2 2 2 2 2 2 2 2 2 2 2 2 2 2 2 2 2 2 2 2 2 2 2 2 2 2 2 2 2 2 2 2 2 2 2 2 2 2 2 2 2 2 2 2 2 2 2 2 2 2 2 2 2 2 2 2 2 2 2 2 2 2 2 2 2 2 2 2 2 2 2 2 2 2 2 2 2 2 2 2 2 2 2 2 2 2 2 
-        `, [myTiles.transparency16,myTiles.tile12,myTiles.tile11,myTiles.tile2,myTiles.tile6,myTiles.tile10,myTiles.tile15,myTiles.tile19,myTiles.tile26,myTiles.tile28,myTiles.tile31,myTiles.tile14,myTiles.tile43,myTiles.tile17,myTiles.tile18,myTiles.tile20,myTiles.tile23,myTiles.tile24,myTiles.tile44,myTiles.tile46,myTiles.tile48,myTiles.tile49,myTiles.tile35,myTiles.tile16,myTiles.tile27,myTiles.tile30,myTiles.tile32,myTiles.tile58,myTiles.tile59,myTiles.tile21,myTiles.tile22,myTiles.tile38,myTiles.tile50,myTiles.tile53,myTiles.tile54,myTiles.tile55,myTiles.tile60,myTiles.tile61,myTiles.tile62,sprites.builtin.brick,myTiles.tile64,myTiles.tile65,myTiles.tile40,myTiles.tile120,myTiles.tile121,myTiles.tile122,myTiles.tile123,myTiles.tile124,myTiles.tile125], TileScale.Sixteen))
+        `, [myTiles.transparency16,myTiles.tile11,myTiles.tile2,myTiles.tile6,myTiles.tile10,myTiles.tile15,myTiles.tile19,myTiles.tile26,myTiles.tile28,myTiles.tile31,myTiles.tile14,myTiles.tile43,myTiles.tile17,myTiles.tile18,myTiles.tile20,myTiles.tile23,myTiles.tile24,myTiles.tile44,myTiles.tile46,myTiles.tile48,myTiles.tile49,myTiles.tile35,myTiles.tile16,myTiles.tile27,myTiles.tile30,myTiles.tile32,myTiles.tile58,myTiles.tile59,myTiles.tile21,myTiles.tile22,myTiles.tile38,myTiles.tile50,myTiles.tile53,myTiles.tile54,myTiles.tile55,myTiles.tile60,myTiles.tile61,myTiles.tile62,sprites.builtin.brick,myTiles.tile64,myTiles.tile65,myTiles.tile40,myTiles.tile120,myTiles.tile121,myTiles.tile122,myTiles.tile123,myTiles.tile124,myTiles.tile125,myTiles.tile126], TileScale.Sixteen))
     effects.clouds.startScreenEffect()
     PREMIO12 = sprites.create(img`
         . . . . . . . f f f . . . . . . . . 
@@ -1020,8 +897,6 @@ function Nivel_1 () {
         . . . . . . . . . . . f b b b b b b b b b f f . . . . . . . . . . f b d d d d d d d b b f . 
         . . . . . . . . . . . f f f f f f f f f f f f . . . . . . . . . . f f f f f f f f f f f f . 
         `, SpriteKind.Enemy)
-    enemigo.setVelocity(-145, 0)
-    enemigo.setPosition(1160, 40)
     lapiz = sprites.create(img`
         . . . . . . . . . . . . . . . f . . . . . . 
         . . . . . . . . . . . . . . f 3 f . . . . . 
@@ -1067,6 +942,8 @@ function Nivel_1 () {
         . . . . . . f d d f . . . . . . 
         . . . . . . f f f f . . . . . . 
         `, SpriteKind.Food)
+    enemigo.setVelocity(-145, 0)
+    enemigo.setPosition(1160, 40)
     lapiz.setPosition(155, 88)
     PREMIO12.setPosition(1231, 266)
     microfono.setPosition(449, 266)
@@ -2146,7 +2023,6 @@ let direccion = 0
 let Caminar = 0
 let Prima_Nº1: Sprite = null
 Nivel_1()
-scene.setBackgroundColor(9)
 Prima_Nº1 = sprites.create(img`
     . . . . . . . . . . . . . . . . . . . . . . . . . . . . . . . . . . . . . . . . . . . . . . 
     . . . . . . . . . . . . . . . . . . . . . . . . . . . . . . . . . . . . . . . . . . . . . . 

diff --git a/tilemap.g.ts b/tilemap.g.ts
@@ -252,6 +252,8 @@ namespace myTiles {
     export const tile124 = image.ofBuffer(hex``);
     //% fixedInstance jres blockIdentity=images._tile
     export const tile125 = image.ofBuffer(hex``);
+    //% fixedInstance jres blockIdentity=images._tile
+    export const tile126 = image.ofBuffer(hex``);
 
 }
 // Auto-generated code. Do not edit.
